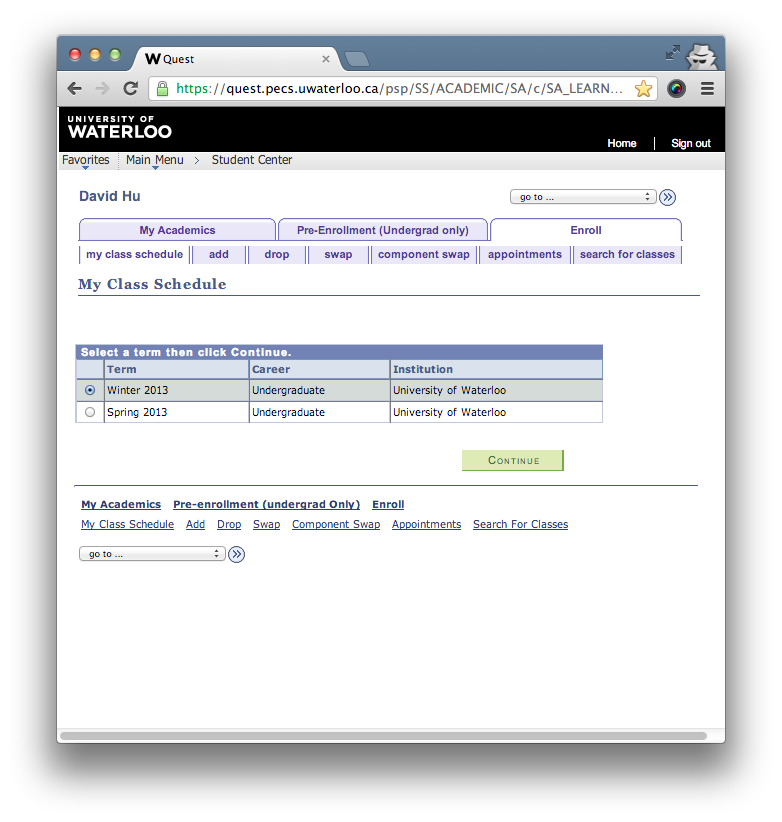
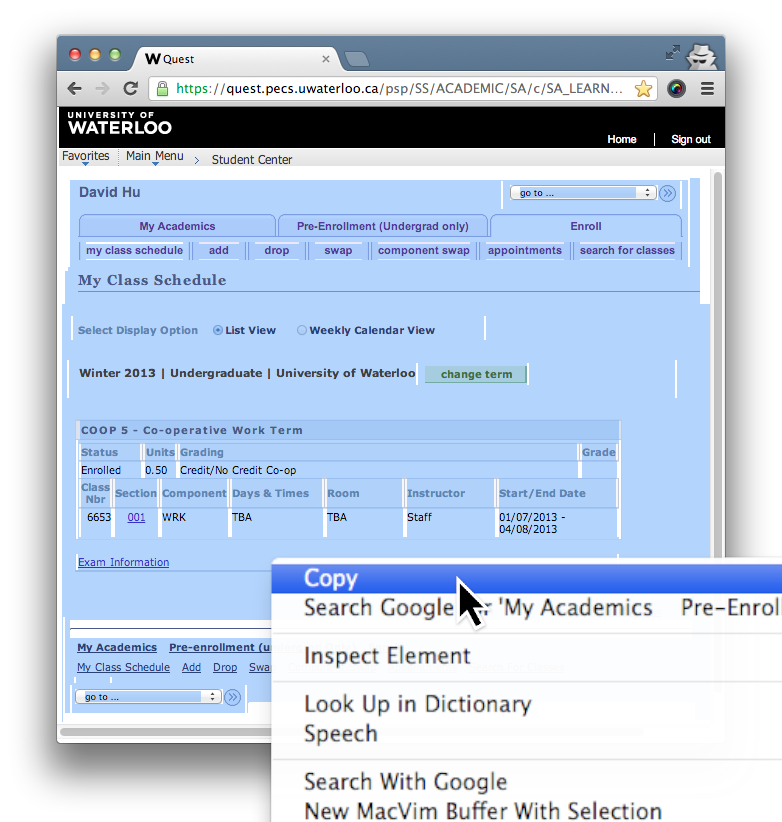
Remove step 2 from import schedule modal
... because Quest doesn't require it anymore.

diff --git a/server/templates/schedule.html b/server/templates/schedule.html
@@ -142,7 +142,7 @@
 {% call macros.us_template('schedule-input-tpl') %}
 <div class="row-fluid">
   <ol class="steps-container">
-    <li class="span3 step">
+    <li class="span4 step">
       <p class="step-text lead">
         <a href="https://quest.pecs.uwaterloo.ca/psp/SS/" target="_blank">
           Log in to Quest
@@ -151,15 +151,11 @@
       </p>
       <img class="step-img" src="/static/img/import-schedule/step-1.png">
     </li>
-    <li class="span3 step">
-      <p class="step-text lead">Select the desired term and continue.</p>
+    <li class="span4 step">
+      <p class="step-text lead">Select all and copy.</p>
       <img class="step-img" src="/static/img/import-schedule/step-2.png">
     </li>
-    <li class="span3 step">
-      <p class="step-text lead">Select all and copy.</p>
-      <img class="step-img" src="/static/img/import-schedule/step-3.png">
-    </li>
-    <li class="span3 step">
+    <li class="span4 step">
       <p class="step-text lead">Paste into the box below!</p>
       <textarea class="schedule-input-textarea"
         placeholder="Om nom nom schedules!"></textarea>

diff --git a/server/static/sass/_schedule.scss b/server/static/sass/_schedule.scss
@@ -210,7 +210,6 @@ $toolbarBg: #FAFAFA;
         background-color: lighten($textColor, 15%);
         color: #FFF;
       }
-
       .step-text {
         min-height: 60px;
         margin-bottom: 5px;
@@ -223,7 +222,7 @@ $toolbarBg: #FAFAFA;
   }
 
   .schedule-input-textarea {
-    height: 150px;  // TODO(david): How do I get this to stretch vertically?
+    height: 250px;  // TODO(david): How do I get this to stretch vertically?
     resize: none;
     width: 89%;
     box-sizing: border-box;
